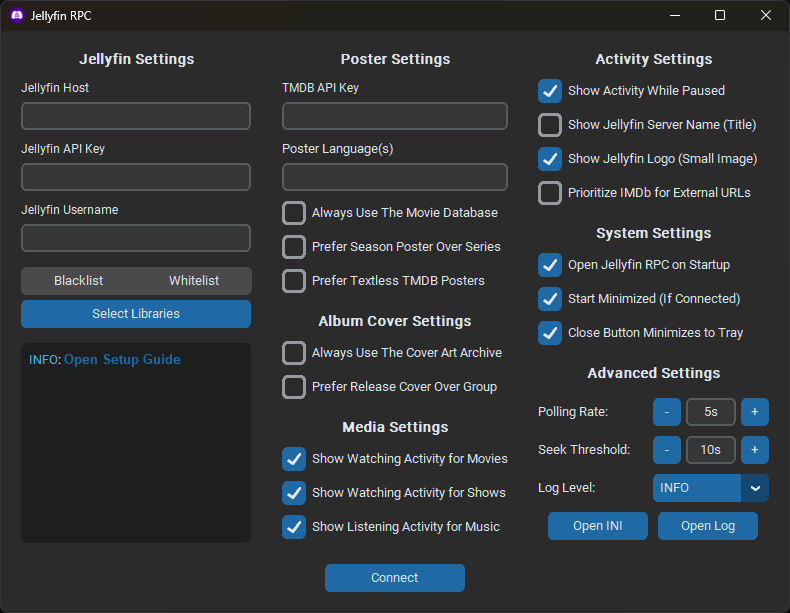
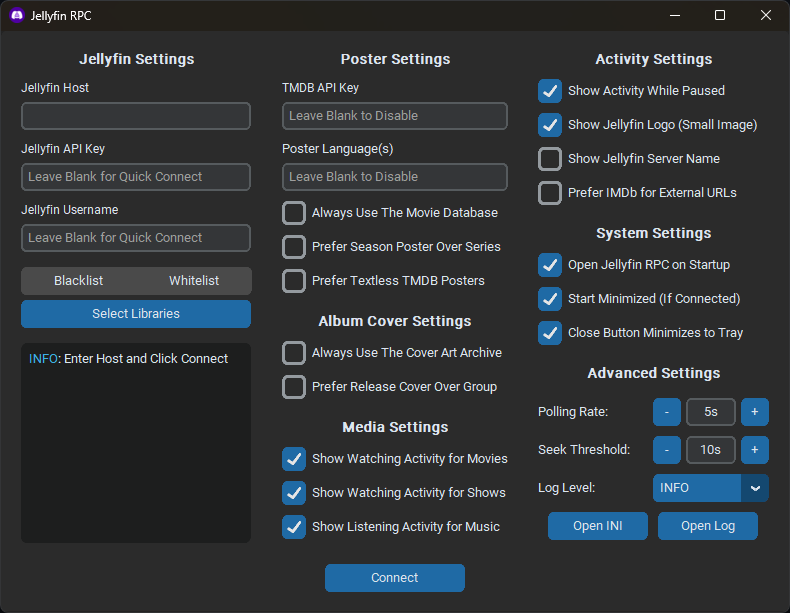
restored missing placeholders for configuration

diff --git a/src/jellyfin_rpc/app.py b/src/jellyfin_rpc/app.py
@@ -3,6 +3,7 @@ import logging
 import multiprocessing as mp
 import os
 import queue
+import re
 import shutil
 import socket
 import subprocess
@@ -98,27 +99,26 @@ class RPCLogger:
         self.text_widget.configure(state='normal')
         start_index = self.text_widget.index('end-1c')
         self.text_widget.insert(ctk.END, message)
-
         end_index = f'{start_index}+{len(record.levelname)}c'
         self.text_widget.tag_add(record.levelname, start_index, end_index)
 
-        if message.rstrip().endswith('Open Setup Guide'):
-            tk_text = self.text_widget._textbox
-            tk_text.tag_add('link', '1.6', '1.22')
-            mode_index = 0 if ctk.get_appearance_mode() == 'Light' else 1
-            link_color = ctk.ThemeManager.theme['CTkButton']['fg_color'][mode_index]
-            bold_font = ctk.CTkFont(family=tk_text.cget('font'))
-            bold_font.configure(weight='bold')
-            tk_text.tag_configure('link', foreground=link_color, font=bold_font)
-            tk_text.tag_bind(
-                'link',
-                '<Button-1>',
-                lambda _: webbrowser.open_new_tab(
-                    'https://github.com/kennethsible/jellyfin-rpc?tab=readme-ov-file#configuration'
-                ),
-            )
-            tk_text.tag_bind('link', '<Enter>', lambda event: event.widget.config(cursor='hand2'))
-            tk_text.tag_bind('link', '<Leave>', lambda event: event.widget.config(cursor=''))
+        tk_text = self.text_widget._textbox
+        mode_index = 0 if ctk.get_appearance_mode() == 'Light' else 1
+        link_color = ctk.ThemeManager.theme['CTkButton']['fg_color'][mode_index]
+        bold_font = ctk.CTkFont(family=tk_text.cget('font'), weight='bold')
+
+        for match in re.finditer(r'https?://\S+', message):
+            url = match.group(0)
+            tag_name = f'link_{id(url)}_{match.start()}'
+
+            link_start = f'{start_index}+{match.start()}c'
+            link_end = f'{start_index}+{match.end()}c'
+
+            tk_text.tag_add(tag_name, link_start, link_end)
+            tk_text.tag_configure(tag_name, foreground=link_color, font=bold_font)
+            tk_text.tag_bind(tag_name, '<Button-1>', lambda _, u=url: webbrowser.open_new_tab(u))
+            tk_text.tag_bind(tag_name, '<Enter>', lambda event: event.widget.config(cursor='hand2'))
+            tk_text.tag_bind(tag_name, '<Leave>', lambda event: event.widget.config(cursor=''))
 
         self.text_widget.configure(state='disabled')
         self.text_widget.see(ctk.END)
@@ -645,26 +645,25 @@ def main() -> None:
     label_host = ctk.CTkLabel(master=col1, text='Jellyfin Host', font=font_label)
     label_host.pack(anchor='w', padx=10)
 
-    var_jf_host = ctk.StringVar(value=jf_host)
-    entry_jf_host = ctk.CTkEntry(master=col1, textvariable=var_jf_host)
+    entry_jf_host = ctk.CTkEntry(master=col1)
+    if jf_host:
+        entry_jf_host.insert(0, jf_host)
     entry_jf_host.pack(pady=(0, 5), padx=10, fill='x')
 
     label_jf_api_key = ctk.CTkLabel(master=col1, text='Jellyfin API Key', font=font_label)
     label_jf_api_key.pack(anchor='w', padx=10)
 
-    var_jf_api_key = ctk.StringVar(value=jf_api_key)
-    entry_jf_api_key = ctk.CTkEntry(
-        master=col1, textvariable=var_jf_api_key, placeholder_text='Leave Blank for Quick Connect'
-    )
+    entry_jf_api_key = ctk.CTkEntry(master=col1, placeholder_text='Leave Blank for Quick Connect')
+    if jf_api_key:
+        entry_jf_api_key.insert(0, jf_api_key)
     entry_jf_api_key.pack(pady=(0, 5), padx=10, fill='x')
 
     label_jf_username = ctk.CTkLabel(master=col1, text='Jellyfin Username', font=font_label)
     label_jf_username.pack(anchor='w', padx=10)
 
-    var_jf_username = ctk.StringVar(value=jf_username)
-    entry_jf_username = ctk.CTkEntry(
-        master=col1, textvariable=var_jf_username, placeholder_text='Leave Blank for Quick Connect'
-    )
+    entry_jf_username = ctk.CTkEntry(master=col1, placeholder_text='Leave Blank for Quick Connect')
+    if jf_username:
+        entry_jf_username.insert(0, jf_username)
     entry_jf_username.pack(pady=(0, 5), padx=10, fill='x')
 
     def change_filter_mode(value: str) -> None:
@@ -728,19 +727,17 @@ def main() -> None:
     label_tmdb_api_key = ctk.CTkLabel(master=col2, text='TMDB API Key', font=font_label)
     label_tmdb_api_key.pack(anchor='w', padx=10)
 
-    var_tmdb_api_key = ctk.StringVar(value=tmdb_api_key or None)
-    entry_tmdb_api_key = ctk.CTkEntry(
-        master=col2, textvariable=var_tmdb_api_key, placeholder_text='Leave Blank to Disable'
-    )
+    entry_tmdb_api_key = ctk.CTkEntry(master=col2, placeholder_text='Leave Blank to Disable')
+    if tmdb_api_key:
+        entry_tmdb_api_key.insert(0, tmdb_api_key)
     entry_tmdb_api_key.pack(pady=(0, 5), padx=10, fill='x')
 
     label_languages = ctk.CTkLabel(master=col2, text='Poster Language(s)')
     label_languages.pack(anchor='w', padx=10)
 
-    var_languages = ctk.StringVar(value=poster_languages)
-    entry_languages = ctk.CTkEntry(
-        master=col2, textvariable=var_languages, placeholder_text='Leave Blank to Disable'
-    )
+    entry_languages = ctk.CTkEntry(master=col2, placeholder_text='Leave Blank to Disable')
+    if poster_languages:
+        entry_languages.insert(0, poster_languages)
     entry_languages.pack(pady=(0, 5), padx=10, fill='x')
 
     var_always_use_tmdb = ctk.IntVar(value=always_use_tmdb)
@@ -807,21 +804,21 @@ def main() -> None:
     )
     checkbox_paused.pack(anchor='w', pady=5, padx=10, fill='x')
 
-    var_server_name = ctk.IntVar(value=show_server_name)
-    checkbox_server_name = ctk.CTkCheckBox(
-        master=col3, text='Show Jellyfin Server Name (Title)', variable=var_server_name
-    )
-    checkbox_server_name.pack(anchor='w', pady=5, padx=10, fill='x')
-
     var_jf_logo = ctk.IntVar(value=show_jf_logo)
     checkbox_jf_logo = ctk.CTkCheckBox(
         master=col3, text='Show Jellyfin Logo (Small Image)', variable=var_jf_logo
     )
     checkbox_jf_logo.pack(anchor='w', pady=5, padx=10, fill='x')
 
+    var_server_name = ctk.IntVar(value=show_server_name)
+    checkbox_server_name = ctk.CTkCheckBox(
+        master=col3, text='Show Jellyfin Server Name', variable=var_server_name
+    )
+    checkbox_server_name.pack(anchor='w', pady=5, padx=10, fill='x')
+
     var_imdb_urls = ctk.IntVar(value=imdb_external_urls)
     checkbox_imdb_urls = ctk.CTkCheckBox(
-        master=col3, text='Prioritize IMDb for External URLs', variable=var_imdb_urls
+        master=col3, text='Prefer IMDb for External URLs', variable=var_imdb_urls
     )
     checkbox_imdb_urls.pack(anchor='w', pady=5, padx=10, fill='x')
 
@@ -1099,7 +1096,7 @@ def main() -> None:
     )
     button_connect.pack(pady=(5, 10))
     context['button_connect'] = button_connect
-    if jf_host:  # and jf_api_key and jf_username:
+    if jf_host:
         on_click_callback()
         if start_minimized and button_connect_text == 'Disconnect':
             if sys.platform == 'linux':
@@ -1107,14 +1104,14 @@ def main() -> None:
             else:
                 root.withdraw()
     else:
-        logger.info('Open Setup Guide')
+        logger.info('Enter Host and Click Connect')
 
     def poll_process_status() -> None:
         status_text = textbox_status_monitor.get('1.0', 'end')
-        if not var_jf_api_key.get() and 'via Quick Connect' in status_text:
+        if not entry_jf_api_key.get() and 'via Quick Connect' in status_text:
             config = load_config(ini_path)
-            var_jf_api_key.set(config.get('JELLYFIN_API_KEY', ''))
-            var_jf_username.set(config.get('JELLYFIN_USERNAME', ''))
+            entry_jf_api_key.set(config.get('JELLYFIN_API_KEY', ''))
+            entry_jf_username.set(config.get('JELLYFIN_USERNAME', ''))
         if rpc_process.has_failed():
             on_click_callback()
         root.after(1000, lambda: poll_process_status())

diff --git a/src/jellyfin_rpc/main.py b/src/jellyfin_rpc/main.py
@@ -113,6 +113,7 @@ async def initiate_quick_connect(
             secret = init_data['Secret']
             code = init_data['Code']
             logger.info(f'Quick Connect Code: {code}')
+            logger.info(f'{jf_host.rstrip("/")}/web/#/quickconnect')
     except (TimeoutError, aiohttp.ClientError, JSONDecodeError, KeyError) as e:
         logger.error(f'Failed to Initiate Quick Connect: {e}')
         sys.exit(1)
